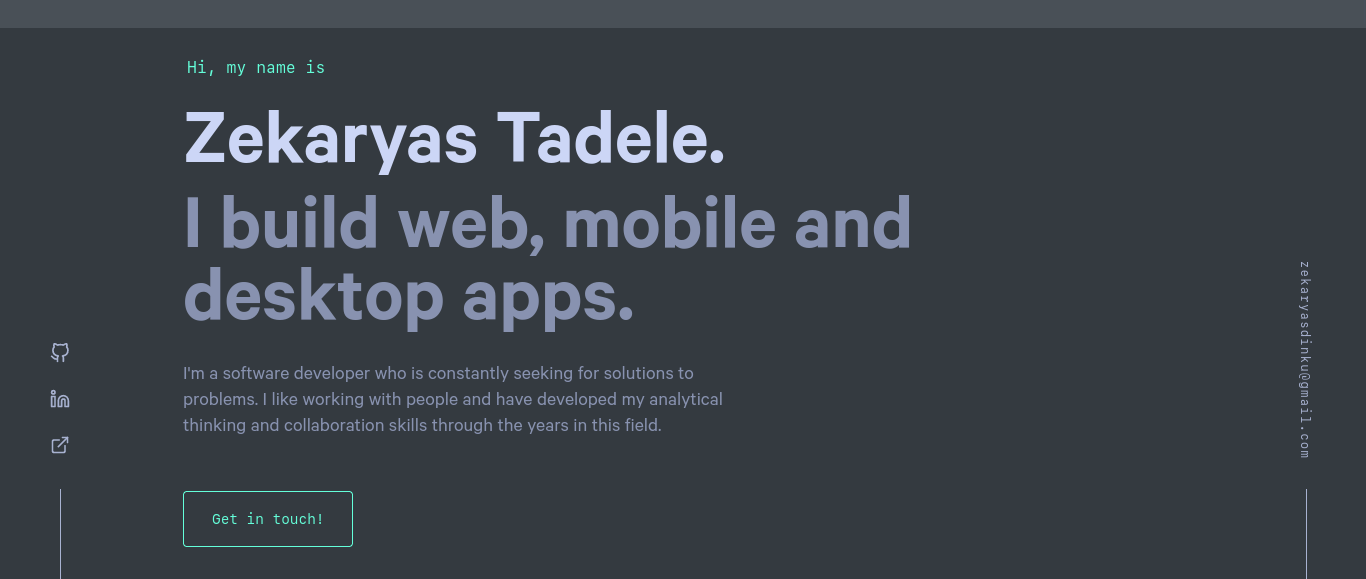
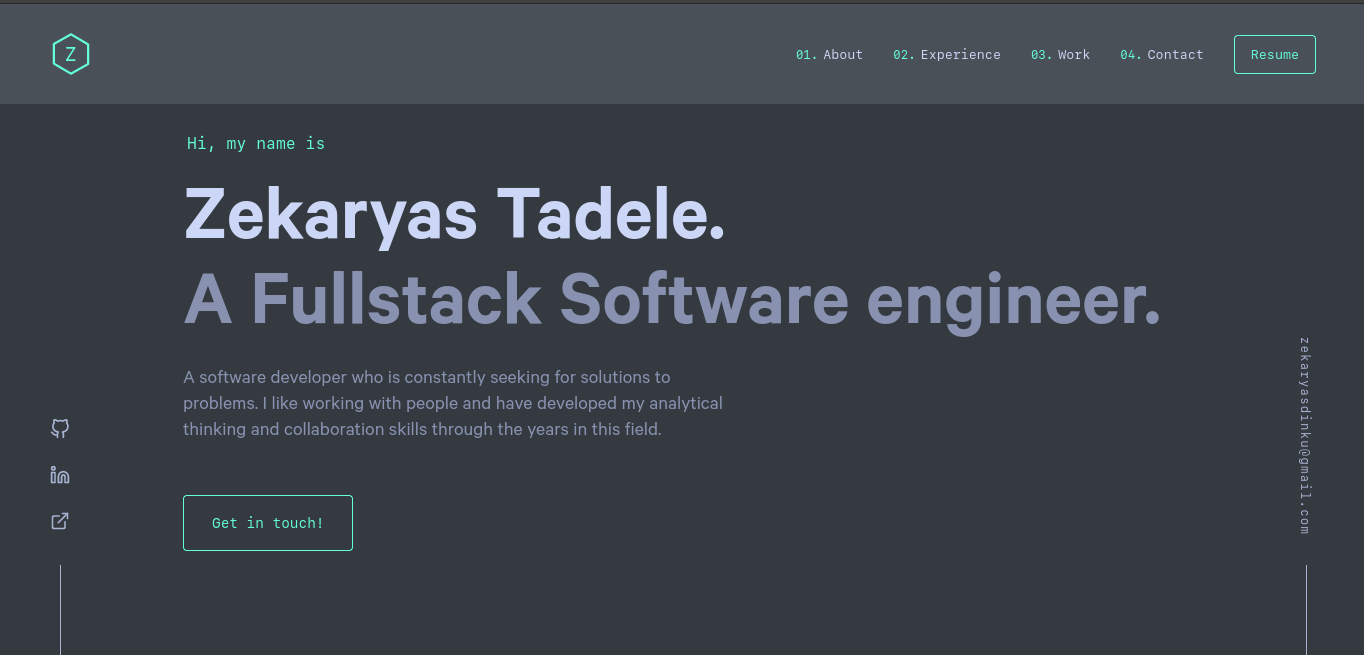
- updated readme with updated image and credit

diff --git a/src/components/sections/hero.js b/src/components/sections/hero.js
@@ -64,13 +64,13 @@ const Hero = () => {
 
   const one = <h1>Hi, my name is</h1>;
   const two = <h2 className="big-heading">Zekaryas Tadele.</h2>;
-  const three = <h3 className="big-heading">A Software engineer with a passion for web.</h3>;
+  const three = <h3 className="big-heading">A Fullstack Software engineer</h3>;
   const four = (
     <>
       <p>
-        I'm a software engineer who is constantly seeking for solutions to problems. I like working
-        with people and have developed my analytical thinking and collaboration skills through the
-        years in this field.
+        A developer who is constantly seeking for solutions to problems. I like working with people
+        and have developed my analytical thinking and collaboration skills through the years in this
+        field.
       </p>
     </>
   );
